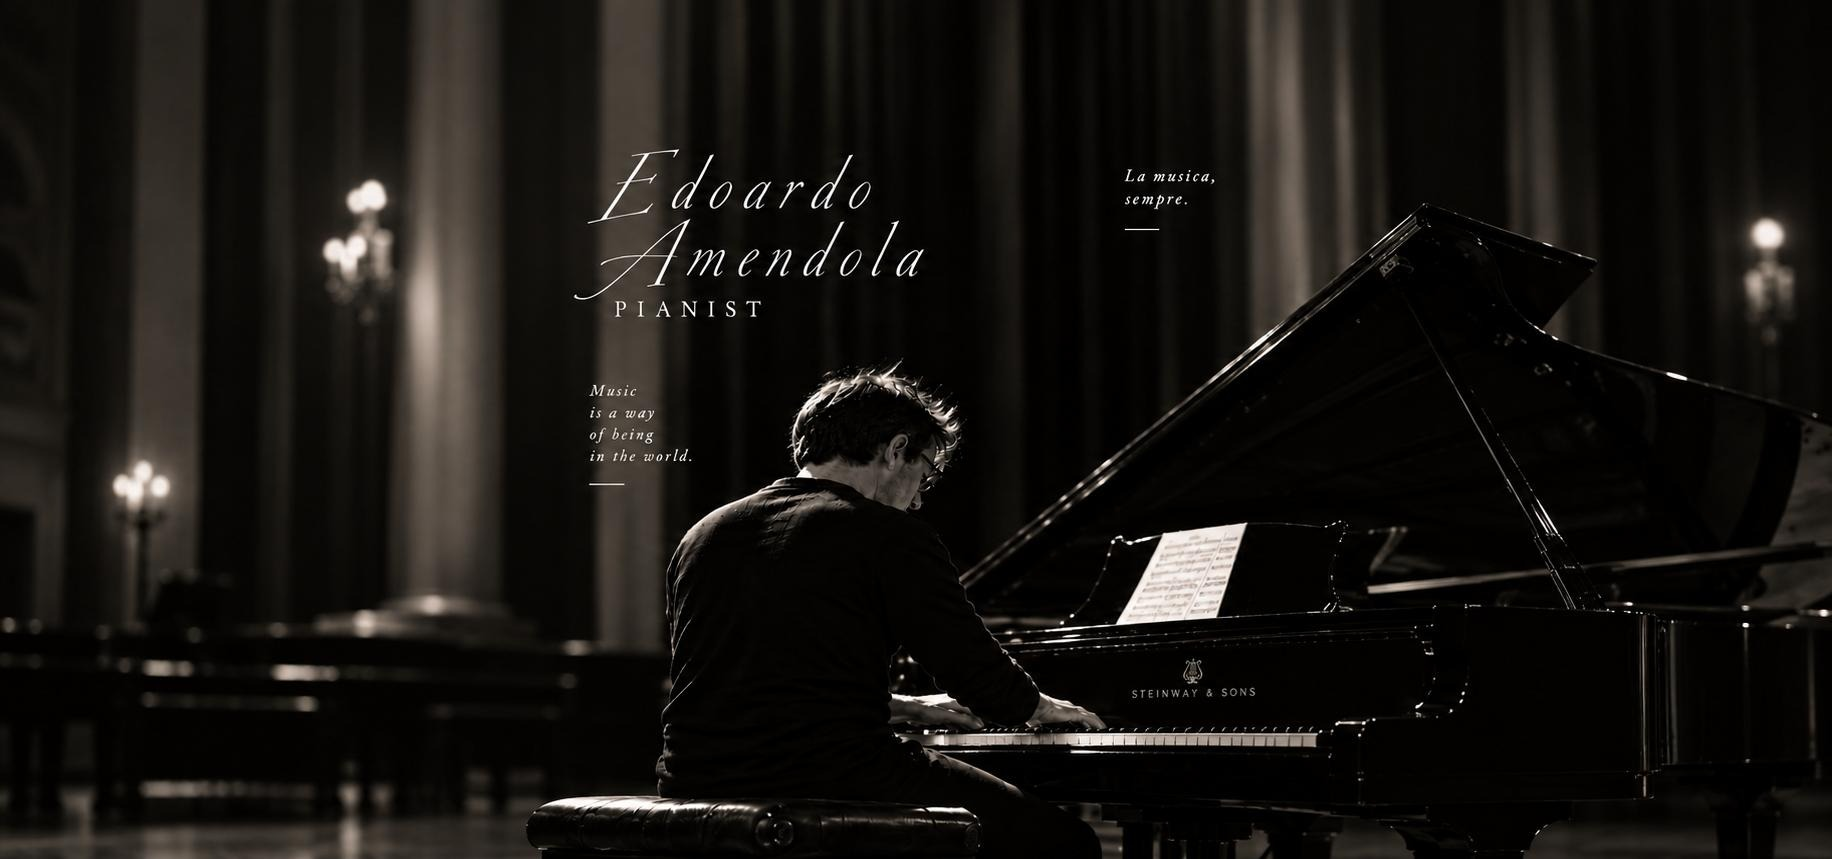
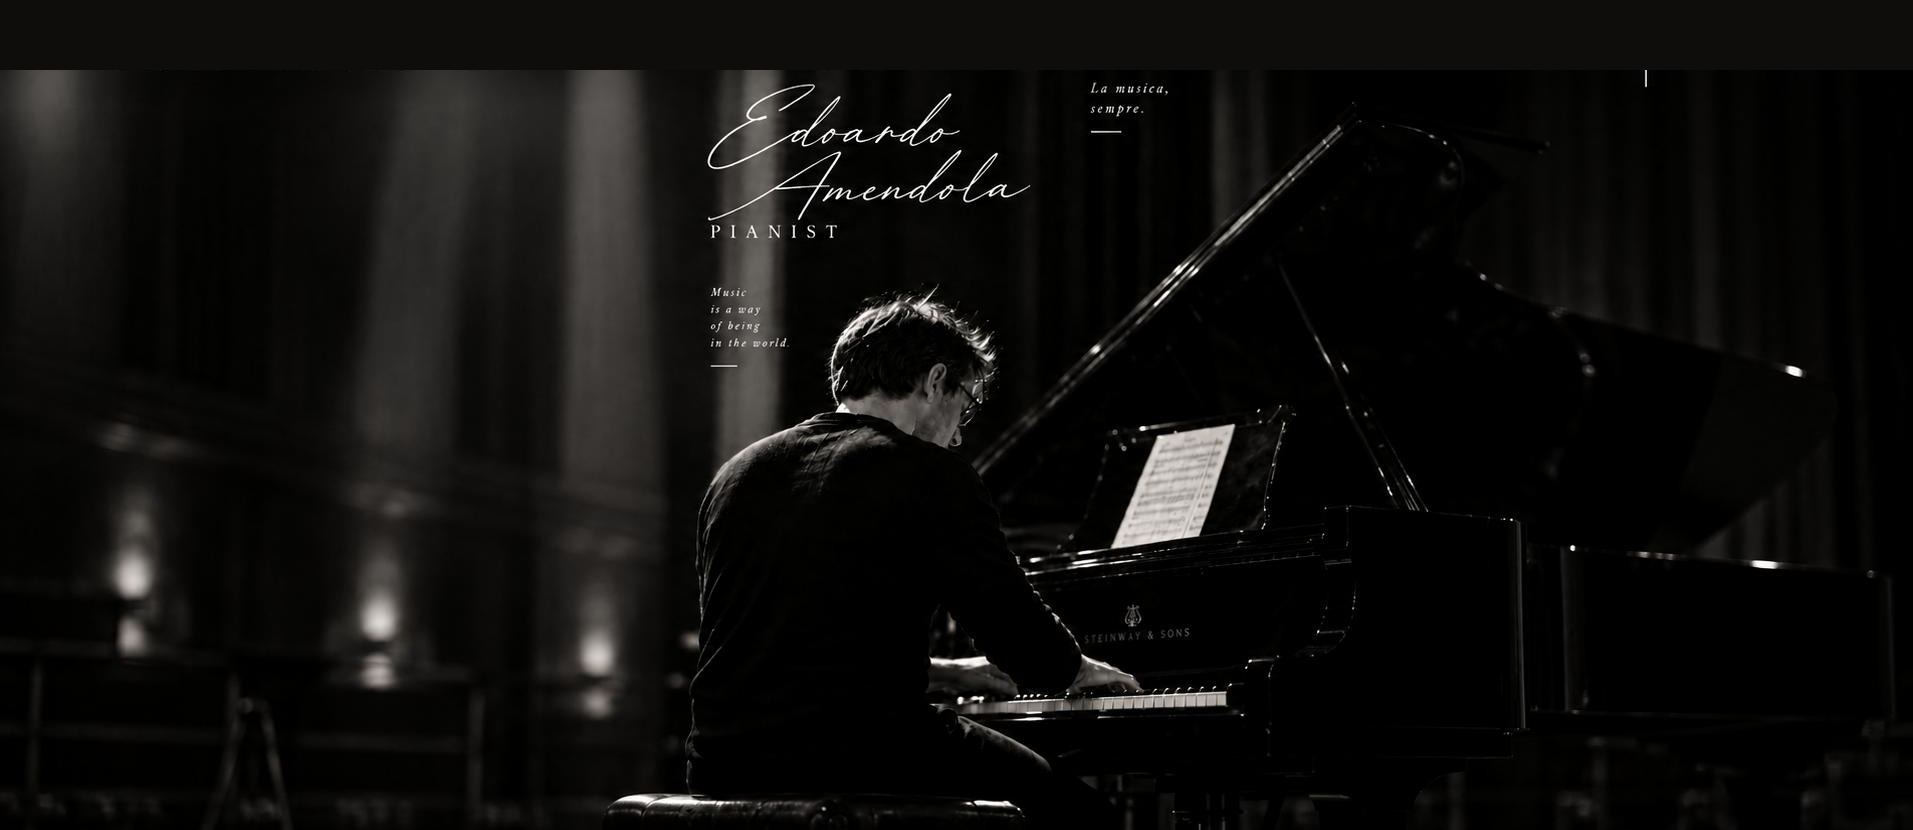
Add files via upload

diff --git a/index.html b/index.html
@@ -66,7 +66,7 @@
 <section aria-label="Home" class="hero view active" id="home">
 <div class="hero-bg" aria-hidden="true"></div>
 <picture>
-<source media="(min-width: 821px)" srcset="assets/hero-desktop.png?v=1"/>
+<source media="(min-width: 821px)" srcset="assets/hero-desktop.png?v=3"/>
 <img alt="Edoardo Amendola playing piano" class="hero-image" src="assets/hero-mobile.png?v=1"/>
 </picture>
 </section>
